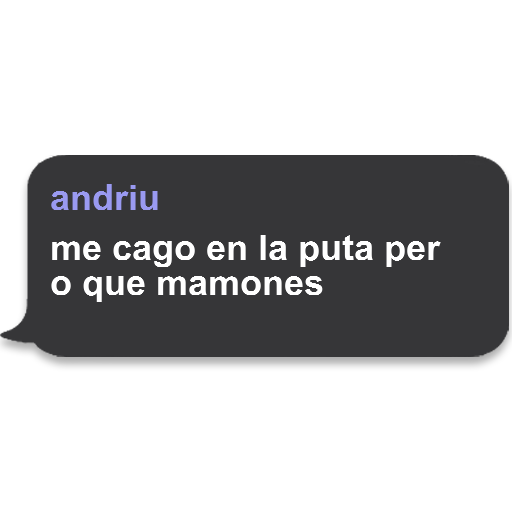
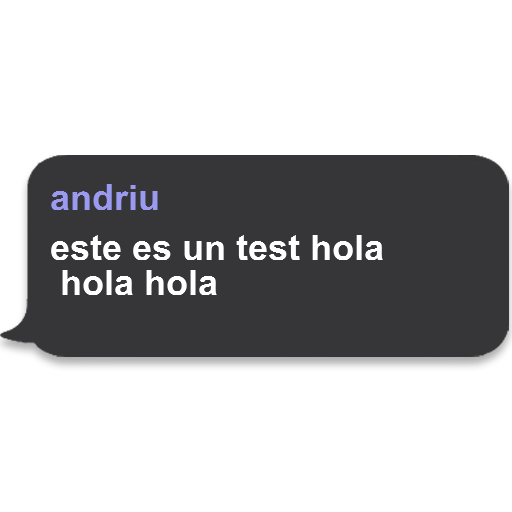
fixed msg spacing, still not perfect tho

Changed region(s): [[0.0938, 0.4375, 0.875, 0.5938]]

diff --git a/index.js b/index.js
@@ -123,16 +123,16 @@ client.on('message', async (message) => {
                 const authorID = await quotedMsg.getContact();
                 const msgAuthor = authorID.pushname;
                 const msgBody = quotedMsg.body;
-                const maxLength = 22;
+                const maxLength = 20;
                 let partOne = " ";
                 let partTwo = " ";
                 let partThree = " ";
 
-                if (msgBody.length >= 23) {
+                if (msgBody.length >= maxLength) {
                     partOne = msgBody.substring(0,maxLength);
                     partTwo = msgBody.substring(maxLength, maxLength*2);
                     
-                    if (msgBody.length >= 46) {
+                    if (msgBody.length >= maxLength*2) {
                         partThree = msgBody.substring(maxLength*2, maxLength*3);
                     }
                     
